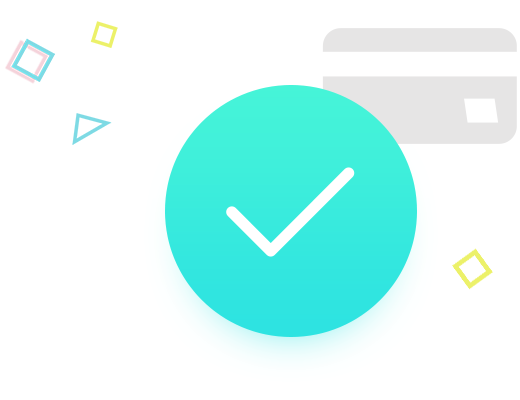
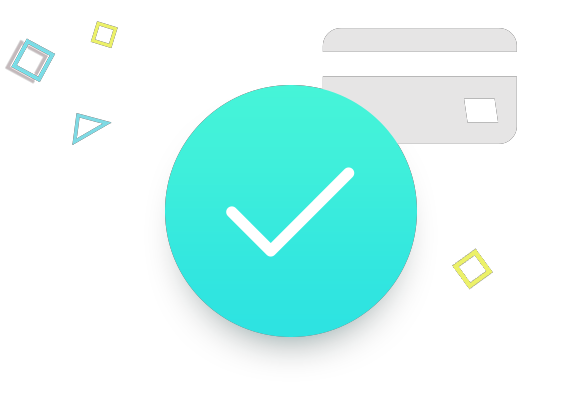
success background image

diff --git a/dev/static/success.html b/dev/static/success.html
@@ -13,7 +13,7 @@ body {
 .wrapper {
   background-image: url('z.png');
   background-repeat: no-repeat;
-  background-position: 40% 25%;
+  background-position: center 25%;
   position: absolute;
   height: 100%;
   width: 100%;

diff --git a/src/success.html b/src/success.html
@@ -13,7 +13,7 @@ body {
 .wrapper {
   background-image: url('z.png');
   background-repeat: no-repeat;
-  background-position: 40% 25%;
+  background-position: center 25%;
   position: absolute;
   height: 100%;
   width: 100%;
